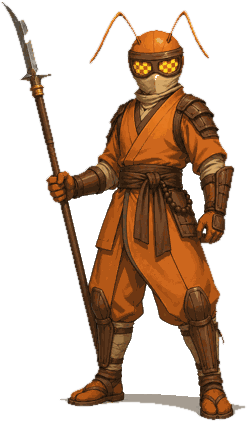
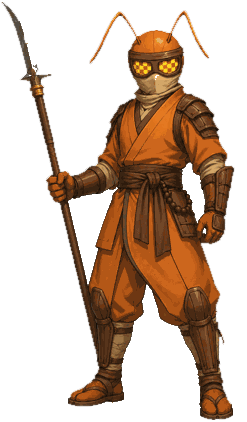
feat(bounty): health bar — 4 hits per life, honey heals, knockback; longer/faster later boards; portraits fully clean
- BOUNTY_HP = 4: bullets/contact take 1 (boss contact, big shots 2), timed spikes 2, liquids/pits/crushers the whole
  bar. damage() knocks the hunter back with 1.1 s of invulnerability; respawn refills. HUD shows 4 HP pips under the lives.
- Honey drop (items 15) heals 1: crates 18%, kills 12%. Hearts still add a life.
- Boards 170 + 16n tiles (+24 on boss stages); grunt/elite/wasp speeds scale with the board number.
- Portraits: floor shadows and stray marks removed (largest component only) — warriors and ronin were still dirty.

Claude-Session: https://claude.ai/code/session_01Coc389Fd8gLJmKxqnpHMBv

diff --git a/components/BountyHunters/game.ts b/components/BountyHunters/game.ts
@@ -1,7 +1,7 @@
 // components/BountyHunters/game.ts
 // Bounty Hunters — canvas-2D run-and-gun engine. Fixed 400×225 internal resolution, nearest-neighbour upscale.
 // Pure game logic + rendering; React only mounts the canvas and forwards input (see BountyGame.tsx).
-import { BOARDS, BOUNTY_LIVES, KILL_BOUNTY, type Board } from "../../lib/bountyConfig";
+import { BOARDS, BOUNTY_HP, BOUNTY_LIVES, KILL_BOUNTY, type Board } from "../../lib/bountyConfig";
 import { buildLevel, ROWS, TILE, type Level, type Spawn } from "./levels";
 
 export const VW = 400, VH = 225;
@@ -9,7 +9,7 @@ const GRAV = 640, PSPEED = 92, JUMP = 262, BULLET = 280;
 
 export type Weapon = "rifle" | "spread" | "laser" | "flame";
 export type Input = { left: boolean; right: boolean; up: boolean; down: boolean; jump: boolean; fire: boolean };
-export type Hud = { lives: number; weapon: Weapon; bounty: number; board: Board; bossHp: number | null; bossMax: number; kills: number; progress: number; state: GameState; msg: string | null };
+export type Hud = { lives: number; hp: number; maxHp: number; weapon: Weapon; bounty: number; board: Board; bossHp: number | null; bossMax: number; kills: number; progress: number; state: GameState; msg: string | null };
 export type GameState = "intro" | "play" | "dying" | "boss" | "cleared" | "gameover";
 export type Callbacks = { onHud: (h: Hud) => void; onSfx: (name: string) => void; onEnd: (r: { cleared: boolean; bounty: number; kills: number; boardN: number }) => void };
 
@@ -38,7 +38,7 @@ export class BountyGame {
   ents: Ent[] = []; player: Ent;
   cam = 0; camLock: number | null = null;
   state: GameState = "intro"; stateT = 0;
-  lives = BOUNTY_LIVES; bounty = 0; kills = 0; weapon: Weapon = "rifle";
+  lives = BOUNTY_LIVES; hp = BOUNTY_HP; maxHp = BOUNTY_HP; bounty = 0; kills = 0; weapon: Weapon = "rifle";
   input: Input = { left: false, right: false, up: false, down: false, jump: false, fire: false };
   prevJump = false; fireCd = 0; invuln = 0; shake = 0; flash = 0; t = 0; checkpoint = 0;
   boss: Ent | null = null; msg: string | null = null; hitStop = 0;
@@ -49,7 +49,7 @@ export class BountyGame {
   constructor(canvas: HTMLCanvasElement, board: Board, cb: Callbacks, faction = "samurai") {
     this.ctx = canvas.getContext("2d")!; this.ctx.imageSmoothingEnabled = false;
     this.board = board; this.cb = cb; this.level = buildLevel(board);
-    this.hunter = load(`hunter_${faction}`, 64, 64, 10); this.items = load("items", 16, 16, 15); this.hud = this.items;
+    this.hunter = load(`hunter_${faction}`, 64, 64, 10); this.items = load("items", 16, 16, 16); this.hud = this.items;
     this.tiles = load(`tiles_${board.biome}`, 16, 16, 16);
     this.bg = [load(`bg_${board.biome}_far`, 480, 225, 1), load(`bg_${board.biome}_mid`, 480, 225, 1), load(`bg_${board.biome}_near`, 480, 64, 1)];
     this.bossSheet = board.boss.captain ? load("elite", 64, 64, 7) : load(`boss_${board.boss.id}`, 64, 64, 6);
@@ -89,7 +89,8 @@ export class BountyGame {
   // ── tiles
   tile(tx: number, ty: number) { if (ty >= ROWS) return 1; if (ty < 0 || tx < 0 || tx >= this.level.cols) return tx < 0 ? 1 : 0; return this.level.tiles[ty * this.level.cols + tx]; }
   solidAt(x: number, y: number) { const v = this.tile(Math.floor(x / TILE), Math.floor(y / TILE)); return v === 1; }
-  spikeAt(x: number, y: number) { const v = this.tile(Math.floor(x / TILE), Math.floor(y / TILE)); if (v === 3 || v === 15) return true; if (v === 11) return this.spikePhase(0); if (v === 12) return this.spikePhase(1); return false; }
+  spikeAt(x: number, y: number) { const v = this.tile(Math.floor(x / TILE), Math.floor(y / TILE)); if (v === 11) return this.spikePhase(0); if (v === 12) return this.spikePhase(1); return false; }
+  liquidAt(x: number, y: number) { const v = this.tile(Math.floor(x / TILE), Math.floor(y / TILE)); return v === 3 || v === 15; }
   spikePhase(k: number) { const c = (this.t % 2.6) / 2.6; return k === 0 ? c < 0.45 : c >= 0.5 && c < 0.95; }
 
   // move an entity with tile collision (AABB, one-way platforms)
@@ -137,7 +138,7 @@ export class BountyGame {
   start() { this.last = performance.now(); const loop = (now: number) => { if (this.over) return; const dt = Math.min(0.05, (now - this.last) / 1000); this.last = now; this.acc += dt; while (this.acc >= 1 / 120) { this.step(1 / 120); this.acc -= 1 / 120; } this.render(); this.raf = requestAnimationFrame(loop); }; this.raf = requestAnimationFrame(loop); }
   stop() { this.over = true; cancelAnimationFrame(this.raf); }
 
-  pushHud() { this.cb.onHud({ lives: this.lives, weapon: this.weapon, bounty: this.bounty, board: this.board, bossHp: this.boss && this.state === "boss" ? Math.max(0, this.boss.hp) : null, bossMax: this.board.boss.hp, kills: this.kills, progress: Math.min(1, this.player.x / this.level.bossX), state: this.state, msg: this.msg }); }
+  pushHud() { this.cb.onHud({ lives: this.lives, hp: this.hp, maxHp: this.maxHp, weapon: this.weapon, bounty: this.bounty, board: this.board, bossHp: this.boss && this.state === "boss" ? Math.max(0, this.boss.hp) : null, bossMax: this.board.boss.hp, kills: this.kills, progress: Math.min(1, this.player.x / this.level.bossX), state: this.state, msg: this.msg }); }
   setState(s: GameState, msg: string | null = null) { this.state = s; this.stateT = 0; this.msg = msg; this.pushHud(); }
   sfx(n: string) { this.cb.onSfx(n); }
 
@@ -157,7 +158,7 @@ export class BountyGame {
       if (this.stateT > 1.4) { this.lives--; this.pushHud(); if (this.lives <= 0) { this.setState("gameover", "THE HIVE COLLECTS"); this.sfx("lose"); } else { this.respawn(); } }
     } else if (this.state === "play" || this.state === "boss") {
       const inp = this.input; const crouch = inp.down && p.ground && !inp.left && !inp.right;
-      p.vx = crouch ? 0 : inp.left ? -PSPEED : inp.right ? PSPEED : 0;
+      if (p.data.knock > 0) { p.data.knock -= dt; } else p.vx = crouch ? 0 : inp.left ? -PSPEED : inp.right ? PSPEED : 0;
       if (inp.left) p.dir = -1; if (inp.right) p.dir = 1;
       if (inp.jump && !this.prevJump && p.ground) { if (inp.down && this.tile(Math.floor((p.x + p.w / 2) / TILE), Math.floor((p.y + p.h + 1) / TILE)) === 2) { p.data.dropThrough = 0.25; } else { p.vy = -JUMP; p.data.jumping = true; this.sfx("jump"); } }
       if (!inp.jump && p.data.jumping && p.vy < -80) p.vy = -80;   // variable jump height (player jumps only, not springs)
@@ -177,7 +178,8 @@ export class BountyGame {
       if (inp.fire && this.fireCd <= 0) { this.shoot(p, aim, crouch); }
       if (this.invuln > 0) this.invuln -= dt;
       // hazards
-      if (p.y > ROWS * TILE + 20 || this.spikeAt(p.x + p.w / 2, p.y + p.h - 2)) this.kill();
+      if (p.y > ROWS * TILE + 20 || this.liquidAt(p.x + p.w / 2, p.y + p.h - 2)) this.kill();
+      else if (this.spikeAt(p.x + p.w / 2, p.y + p.h - 2)) this.damage(2);
       // camera / boss trigger
       if (this.state === "play" && p.x >= this.level.bossX) { this.camLock = this.level.bossX - 40; this.setState("boss", `WANTED · ${this.board.boss.name}`); if (this.boss) this.boss.state = "enter"; this.sfx("ambush"); }
       if (p.ground && this.state === "play" && !this.spikeAt(p.x + p.w / 2, p.y + p.h + 2)) { if (Math.floor(p.x / 64) !== Math.floor(this.checkpoint / 64)) this.checkpoint = p.x; }
@@ -195,7 +197,7 @@ export class BountyGame {
           if (e.hp <= 0) { e.state = "dead"; e.t += 0; if (e.t > 1.2) e.dead = true; break; }
           if (!near) break;
           e.dir = dx < 0 ? -1 : 1;
-          const speed = e.kind === "elite" ? 46 : 34;
+          const speed = (e.kind === "elite" ? 46 : 34) + this.board.difficulty * 1.5;
           const far = Math.abs(dx) > 120;
           e.vx = far ? e.dir * speed : (Math.abs(dx) < 40 ? -e.dir * speed * 0.6 : 0);
           // don't walk off ledges
@@ -218,7 +220,7 @@ export class BountyGame {
           if (!near) break;
           const ph = e.data.ph + this.t * 3;
           const tx = p.x - (dx > 0 ? 24 : -24);
-          e.vx += ((tx - e.x) * 1.6 - e.vx) * dt * 1.2; e.vx = Math.max(-110, Math.min(110, e.vx));
+          e.vx += ((tx - e.x) * 1.6 - e.vx) * dt * 1.2; const wv = 100 + this.board.difficulty * 4; e.vx = Math.max(-wv, Math.min(wv, e.vx));
           const ty = Math.min(e.data.baseY + 30, Math.max(20, p.y - 40 + Math.sin(ph) * 22));
           e.vy = (ty - e.y) * 2.4;
           e.x += e.vx * dt; e.y += e.vy * dt; e.dir = e.vx < 0 ? -1 : 1;
@@ -298,7 +300,7 @@ export class BountyGame {
         case "ebullet": {
           e.x += e.vx * dt; e.y += e.vy * dt; e.data.life -= dt;
           if (e.data.life <= 0 || this.solidAt(e.x + 3, e.y + 3)) e.dead = true;
-          if ((this.state === "play" || this.state === "boss") && this.invuln <= 0 && this.overlap(e, this.hit(p))) { e.dead = true; this.kill(); }
+          if ((this.state === "play" || this.state === "boss") && this.invuln <= 0 && this.overlap(e, this.hit(p))) { e.dead = true; this.damage(e.data.big ? 2 : 1); }
           break;
         }
         case "item": {
@@ -307,6 +309,7 @@ export class BountyGame {
             e.dead = true; const it = e.data.item;
             if (it === 0) { this.bounty += 5; this.sfx("coin"); }
             else if (it === 5) { this.lives = Math.min(5, this.lives + 1); this.sfx("heal"); }
+            else if (it === 15) { this.hp = Math.min(this.maxHp, this.hp + 1); this.sfx("heal"); }
             else { this.weapon = (["", "spread", "laser", "flame", "rifle"] as Weapon[])[it]; this.sfx("power"); this.msg = this.weapon.toUpperCase() + " GUN"; setTimeout(() => { if (this.msg?.endsWith("GUN")) { this.msg = null; this.pushHud(); } }, 1400); }
             this.pushHud();
           }
@@ -327,7 +330,16 @@ export class BountyGame {
   updateParts(dt: number) { for (const q of this.parts) { q.life -= dt; q.x += q.vx * dt; q.y += q.vy * dt; q.vy += 200 * dt; } this.parts = this.parts.filter((q) => q.life > 0); }
   hit(p: Ent) { return p.data.crouch ? { ...p, y: p.y + 10, h: p.h - 10 } : p; }
   overlap(a: { x: number; y: number; w: number; h: number }, b: { x: number; y: number; w: number; h: number }) { return a.x < b.x + b.w && a.x + a.w > b.x && a.y < b.y + b.h && a.y + a.h > b.y; }
-  touch(e: Ent, _dmg: number) { if ((this.state === "play" || this.state === "boss") && this.invuln <= 0 && e.hp > 0 && this.overlap(e, this.hit(this.player))) this.kill(); }
+  touch(e: Ent, dmg: number) { if ((this.state === "play" || this.state === "boss") && this.invuln <= 0 && e.hp > 0 && this.overlap(e, this.hit(this.player))) this.damage(dmg, e); }
+  /** lose HP; at 0 the life is gone. Knockback away from `from` (or backwards). */
+  damage(n: number, from?: Ent) {
+    if (this.state !== "play" && this.state !== "boss") return; if (this.invuln > 0) return;
+    this.hp -= n;
+    if (this.hp <= 0) { this.hp = 0; this.kill(); return; }
+    const p = this.player; const away = from ? (p.x + p.w / 2 < from.x + from.w / 2 ? -1 : 1) : -p.dir;
+    p.vx = away * 90; p.vy = Math.min(p.vy, -140); p.data.knock = 0.18; this.invuln = 1.1; this.flash = 0.7; this.shake = 0.6; this.hitStop = 0.04;
+    this.burst(p.x + p.w / 2, p.y + p.h / 2, 8, "#ff6060", 90, 2); this.sfx("hurt"); this.pushHud();
+  }
 
   shoot(p: Ent, aim: number, crouch: boolean) {
     const a = (-aim * Math.PI) / 180; const dirx = aim === 90 ? 0 : p.dir; const cx = p.x + p.w / 2 + dirx * 12, cy = p.y + (crouch ? 18 : 10);
@@ -344,13 +356,13 @@ export class BountyGame {
 
   onKill(o: Ent) {
     if (o.kind === "brick") { this.sfx("crate"); return; }
-    if (o.kind === "crate") { this.burst(o.x + 8, o.y + 8, 10, "#c8a070", 90, 2); const roll = Math.random(); const it = this.mk("item", o.x + 2, o.y, 12, 12); it.vy = -120; it.data.item = roll < 0.45 ? 0 : roll < 0.65 ? 1 : roll < 0.8 ? 2 : roll < 0.92 ? 3 : 5; this.sfx("crate"); return; }
+    if (o.kind === "crate") { this.burst(o.x + 8, o.y + 8, 10, "#c8a070", 90, 2); const roll = Math.random(); const it = this.mk("item", o.x + 2, o.y, 12, 12); it.vy = -120; it.data.item = roll < 0.32 ? 0 : roll < 0.5 ? 15 : roll < 0.66 ? 1 : roll < 0.8 ? 2 : roll < 0.92 ? 3 : 5; this.sfx("crate"); return; }
     this.kills++; this.bounty += KILL_BOUNTY[o.kind] || 0;
     this.burst(o.x + o.w / 2, o.y + o.h / 2, 12, o.kind === "wasp" ? "#f8c840" : "#9be080", 100, 2);
     if (o.kind === "wasp") { o.vy = -60; } else if (o.kind === "boss") { this.onBossDown(o); } else { o.t = 0; }
     this.sfx(o.kind === "boss" ? "bossdie" : "kill"); this.hitStop = 0.03;
     // bounty tag pops out of anything that isn't a boss
-    if (o.kind !== "boss" && Math.random() < 0.35) { const it = this.mk("item", o.x + o.w / 2 - 6, o.y, 12, 12); it.vy = -140; it.vx = (Math.random() - 0.5) * 60; it.data.item = 0; }
+    if (o.kind !== "boss") { const roll = Math.random(); if (roll < 0.42) { const it = this.mk("item", o.x + o.w / 2 - 6, o.y, 12, 12); it.vy = -140; it.vx = (Math.random() - 0.5) * 60; it.data.item = roll < 0.3 ? 0 : 15; } }
     this.pushHud();
   }
 
@@ -360,7 +372,7 @@ export class BountyGame {
     this.burst(p.x + p.w / 2, p.y + p.h / 2, 16, "#ff6060", 120, 2); this.sfx("die"); this.setState("dying");
   }
   respawn() {
-    const p = this.player; p.x = this.camLock != null ? this.camLock + 30 : this.checkpoint; p.y = 20; p.vx = 0; p.vy = 0; this.invuln = 2.2; this.weapon = "rifle";
+    const p = this.player; p.x = this.camLock != null ? this.camLock + 30 : this.checkpoint; p.y = 20; p.vx = 0; p.vy = 0; this.invuln = 2.2; this.weapon = "rifle"; this.hp = this.maxHp;
     // find ground under the checkpoint
     for (let y = 0; y < ROWS; y++) { if (this.tile(Math.floor((p.x + p.w / 2) / TILE), y) === 1) { p.y = y * TILE - p.h - 2; break; } }
     for (const e of this.ents) if (e.kind === "ebullet") e.dead = true;
@@ -527,7 +539,7 @@ export class BountyGame {
       case "spring": { const x = Math.floor(e.x), y = Math.floor(e.y); const sq = e.data.k > 0 ? 3 : 0; c.fillStyle = "#c8c8d8"; c.fillRect(x, y + 6, 14, 2); c.fillStyle = "#8a8aa0"; for (let i = 0; i < 3; i++) c.fillRect(x + 2, y + 1 + sq * 0.5 + i * 1.7, 10, 1); c.fillStyle = "#ff6b6b"; c.fillRect(x, y - 2 + sq, 14, 3); break; }
       case "cannon": { const x = Math.floor(e.x), y = Math.floor(e.y); c.fillStyle = "#2a2630"; c.fillRect(x + 2, y + 6, 12, 10); c.fillStyle = "#4a4658"; c.fillRect(e.dir > 0 ? x + 6 : x - 4, y + 4, 14, 8); c.fillStyle = "#15131a"; c.fillRect(e.dir > 0 ? x + 17 : x - 4, y + 6, 3, 4); if (e.data.flash > 0) { c.fillStyle = "#ffe08a"; c.fillRect(e.dir > 0 ? x + 20 : x - 8, y + 5, 5, 6); } break; }
       case "hopper": { const s = sheets.turret; const f = e.state === "dead" ? 3 : e.data.hurt > 0 ? 2 : (e.ground ? Math.floor(this.t * 4) % 2 : 1); this.frame(s, f, e.x - 4, e.y - 8, e.dir < 0); break; }
-      case "item": { const bob = Math.sin(this.t * 6) * 1.5; this.frame(this.items, e.data.item === 0 ? 0 : e.data.item === 5 ? 5 : e.data.item, e.x - 2, e.y - 2 + bob, false); break; }
+      case "item": { const bob = Math.sin(this.t * 6) * 1.5; this.frame(this.items, e.data.item, e.x - 2, e.y - 2 + bob, false); break; }
       case "bullet": {
         if (e.data.laser) { c.save(); c.translate(e.x + 3, e.y + 3); c.rotate(Math.atan2(e.vy, e.vx)); this.frame(this.items, 8, -8, -8, false); c.restore(); }
         else if (e.data.flame) this.frame(this.items, 9, e.x - 5, e.y - 5, false);

diff --git a/components/BountyHunters/BountyHunters.tsx b/components/BountyHunters/BountyHunters.tsx
@@ -5,7 +5,7 @@ import dynamic from "next/dynamic";
 import { usePoints } from "../../lib/usePoints";
 import { loadProfile, getEffectivePlayerId } from "../../lib/profile";
 import { pointsConfig as defaultPointsConfig } from "../../lib/pointsConfig";
-import { BOARDS, BOUNTY_DEATH_KEEP, BOUNTY_DEFAULT_COST, BOUNTY_LIVES, KILL_BOUNTY, type Board } from "../../lib/bountyConfig";
+import { BOARDS, BOUNTY_DEATH_KEEP, BOUNTY_DEFAULT_COST, BOUNTY_HP, BOUNTY_LIVES, KILL_BOUNTY, type Board } from "../../lib/bountyConfig";
 import { preloadBoard } from "./game";
 import { DESCENT_FACTIONS } from "../../lib/descentConfig";
 
@@ -161,7 +161,7 @@ const BountyHunters: React.FC = () => {
       <div style={{ maxWidth: 1000, margin: "30px auto 0", padding: "0 16px", display: "grid", gridTemplateColumns: "repeat(auto-fit, minmax(210px, 1fr))", gap: 10 }}>
         {[
           { t: "CONTROLS", c: "#c4b5fd", d: "← → run · Z / Space jump · X / Shift fire · ↑ aim up · ↓ crouch, or drop through a platform. Touch pads on phones." },
-          { t: "ONE HIT", c: "#f87171", d: "Like the old days: anything that touches you takes a life. Bullets, wasps, spikes, pits. You respawn at the last checkpoint with a plain rifle." },
+          { t: "HEALTH", c: "#f87171", d: `${BOUNTY_HP} hits per life, ${BOUNTY_LIVES} lives. Bullets and bugs take 1, spikes take 2, liquids, pits and crushers take the whole bar. Honey drops heal 1, hearts add a life. You respawn at the last checkpoint with a plain rifle.` },
           { t: "GUNS", c: "#7ad4ff", d: "Crates drop capsules. S = spread (3 shots), L = laser (fast, goes through), F = flame (short, rapid). Dying puts you back on the rifle." },
           { t: "THE TARGET", c: "#fbbf24", d: "Every board ends in a locked arena: a captain on stages 1–2, the world boss on stage 3. Its bounty is the real money — kills on the way are tips." },
           { t: "THE HIVE FIGHTS BACK", c: "#a78bfa", d: "Deeper boards add moving and crumbling platforms, crushers, timed spikes, cannons, springs, brick walls and hopping spiders. Watch the rhythm, then go." },

diff --git a/components/BountyHunters/BountyGame.tsx b/components/BountyHunters/BountyGame.tsx
@@ -54,7 +54,10 @@ export default function BountyGameView({ board, faction = "samurai", onEnd, onQu
         {hud && (
           <div style={{ position: "absolute", inset: 0, pointerEvents: "none" }}>
             <div style={{ position: "absolute", top: 8, left: 10, display: "flex", gap: 10, alignItems: "center" }}>
-              <div style={{ display: "flex", gap: 3 }}>{Array.from({ length: Math.max(0, hud.lives) }, (_, i) => <span key={i} style={{ fontSize: 12 * Math.max(1, scale / 2) }}>❤</span>)}</div>
+              <div>
+                <div style={{ display: "flex", gap: 3 }}>{Array.from({ length: Math.max(0, hud.lives) }, (_, i) => <span key={i} style={{ fontSize: 11 * Math.max(1, scale / 2) }}>❤</span>)}</div>
+                <div style={{ display: "flex", gap: 2, marginTop: 3 }}>{Array.from({ length: hud.maxHp }, (_, i) => <div key={i} style={{ width: 10 * Math.max(1, scale / 2), height: 4 * Math.max(1, scale / 2), background: i < hud.hp ? (hud.hp <= 1 ? "#ff4d4d" : "#7cf07c") : "rgba(255,255,255,0.15)", border: "1px solid rgba(0,0,0,0.7)" }} />)}</div>
+              </div>
               <div style={{ fontSize: 9 * Math.max(1, scale / 2), letterSpacing: "0.2em", fontWeight: 800, color: hud.weapon === "rifle" ? "#ddd" : hud.weapon === "spread" ? "#ff7070" : hud.weapon === "laser" ? "#7ad4ff" : "#ffa040" }}>{hud.weapon.toUpperCase()}</div>
             </div>
             <div style={{ position: "absolute", top: 8, right: 10, textAlign: "right" }}>

diff --git a/lib/bountyConfig.ts b/lib/bountyConfig.ts
@@ -4,6 +4,7 @@
 export const BOUNTY_DEFAULT_COST = 100;      // REBEL to start a hunt (admin override: pointsConfig.bountyCost)
 export const BOUNTY_DEATH_KEEP = 0.5;        // share of collected bounty kept on game over
 export const BOUNTY_LIVES = 3;
+export const BOUNTY_HP = 4;                  // hits per life — bullets/contact 1, spikes 2, liquids/pits/crushers take the whole bar
 
 export type BiomeId = "jungle" | "sewers" | "fortress" | "throne";
 
@@ -36,7 +37,7 @@ export const BOARDS: Board[] = WORLDS.flatMap((w, wi) => [0, 1, 2].map((si) => {
     id: `w${world}s${stage}`, n, world, stage, biome: w.biome,
     name: `${w.name} ${stage}: ${w.stages[si]}`, subtitle: w.subs[si],
     boss: captain ? { id: "captain", name: `${w.name.toUpperCase()} CAPTAIN`, bounty: 40 * world + 30 * stage, hp: 14 + 6 * n, captain: true } : { ...w.boss, captain: false },
-    length: 150 + n * 12 + (stage === 3 ? 20 : 0),
+    length: 170 + n * 16 + (stage === 3 ? 24 : 0),
     difficulty: n,
     accent: w.accent, music: w.music,
   };

diff --git a/lib/useBountyAudio.ts b/lib/useBountyAudio.ts
@@ -49,6 +49,7 @@ export function useBountyAudio() {
       kill: () => play("fw-hit-heavy", 0.55, 80),
       bossdie: () => play("fw-territory-win", 0.8),
       die: () => play("ant-die", 0.8),
+      hurt: () => play("spider-hit", 0.55, 150),
       jump: () => play("fw-trick-dodge", 0.18, 120),
       coin: () => play("collect-crumb", 0.5, 80),
       heal: () => play("fw-heal", 0.6),
